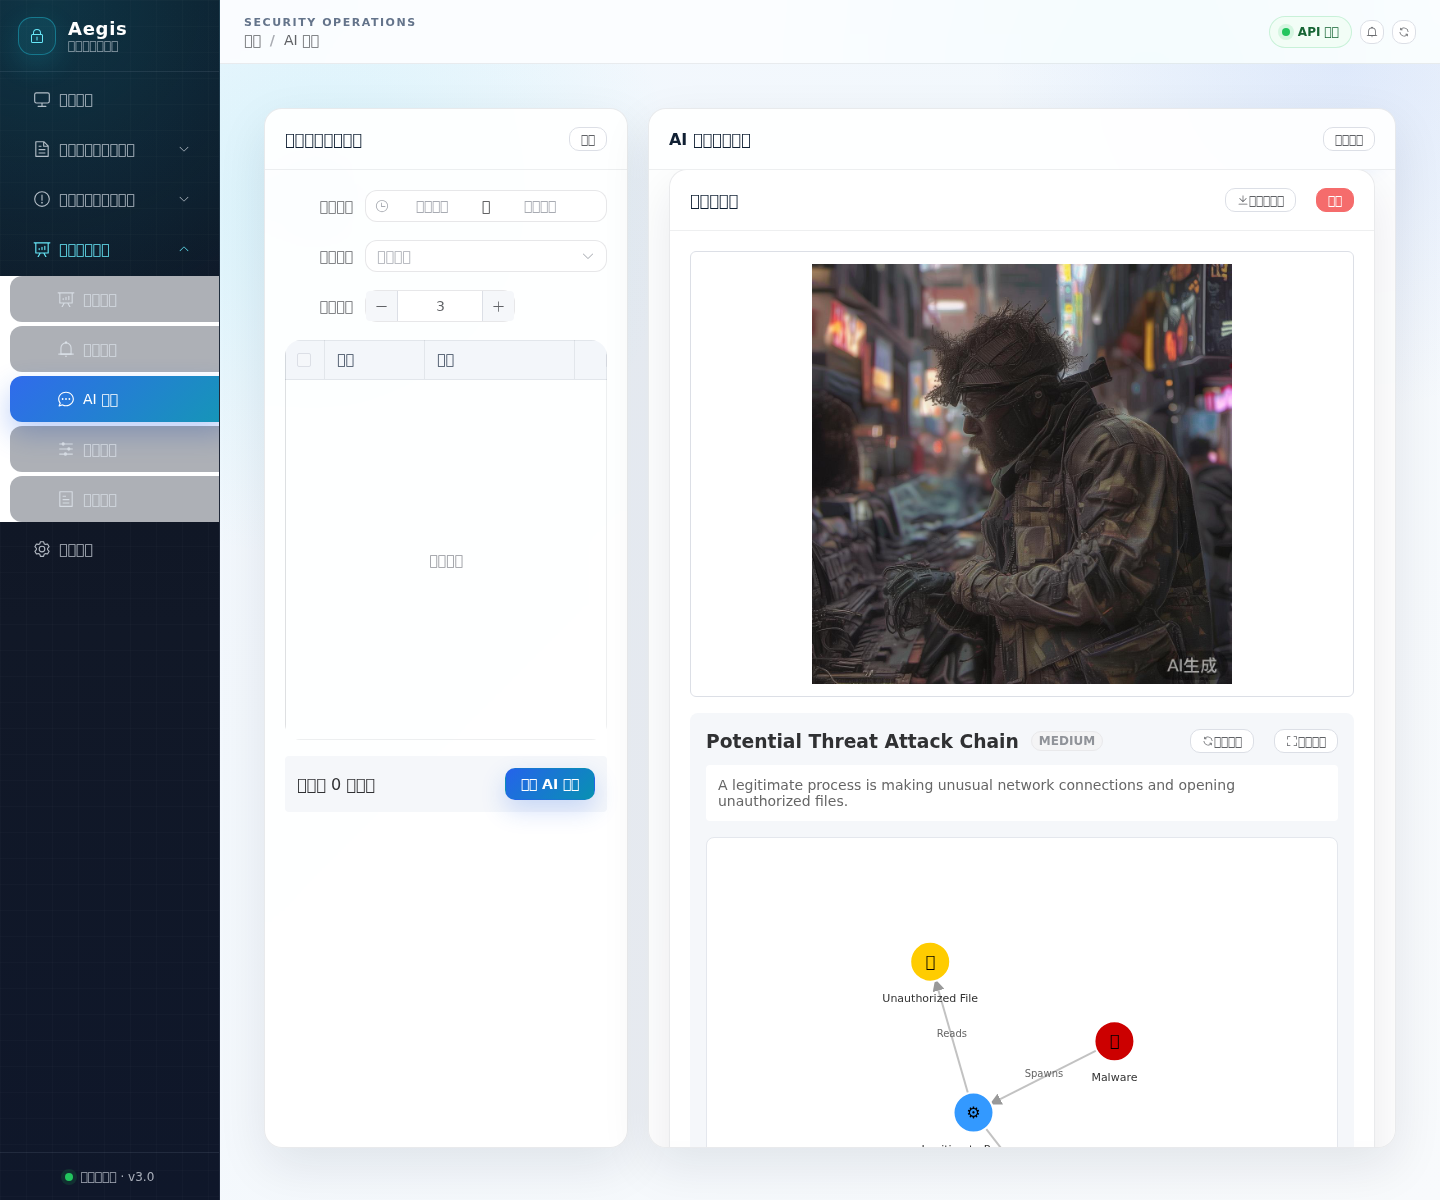
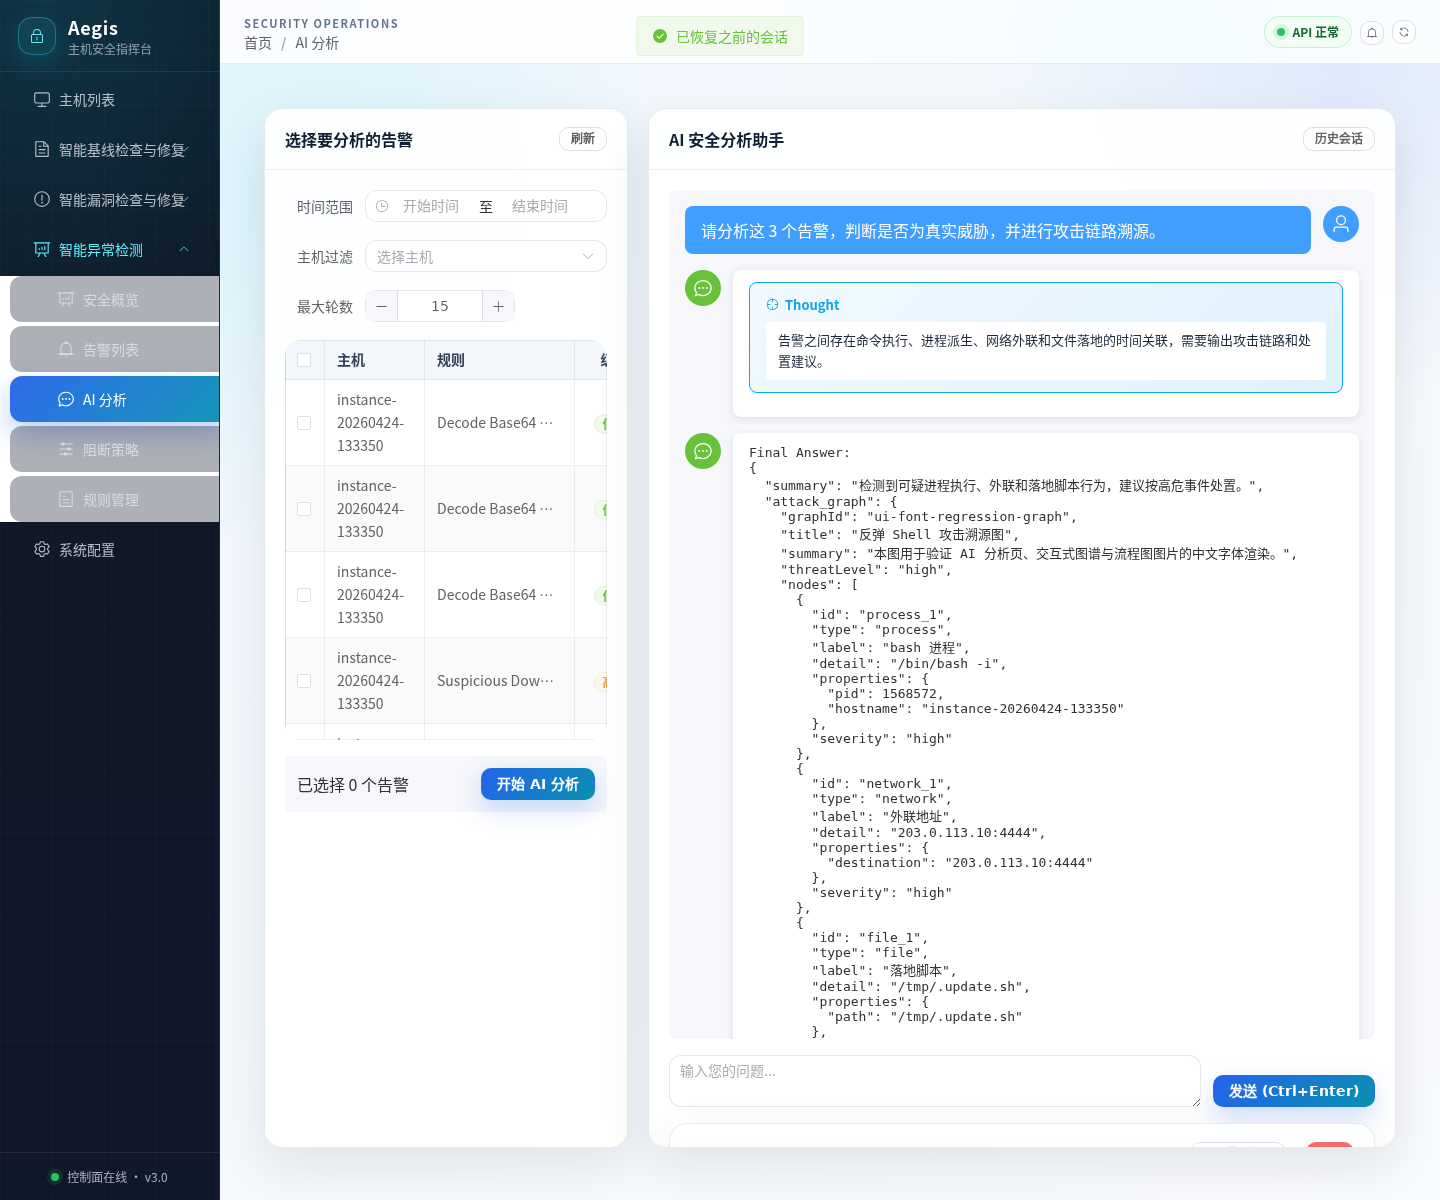
fix: stabilize cjk rendering in ai screenshots

diff --git a/frontend/src/utils/attackGraph.ts b/frontend/src/utils/attackGraph.ts
@@ -133,6 +133,8 @@ function nodeColor(node: AttackGraphNode): string {
   return colors[node.type] || '#475569'
 }
 
+const SVG_FONT_STACK = '"Noto Sans CJK SC", "Noto Sans SC", "Source Han Sans SC", "Microsoft YaHei", "PingFang SC", "Hiragino Sans GB", "WenQuanYi Micro Hei", "Segoe UI", sans-serif'
+
 export function buildAttackGraphSvgDataUrl(graph: AttackGraphData): string {
   const width = 960
   const height = Math.max(360, 190 + graph.nodes.length * 82)
@@ -189,13 +191,13 @@ export function buildAttackGraphSvgDataUrl(graph: AttackGraphData): string {
           <path d="M0,0 L0,6 L9,3 z" fill="#334155" />
         </marker>
         <style>
-          .title { font: 700 28px ui-sans-serif, system-ui, sans-serif; fill: #0f172a; }
-          .summary { font: 400 15px ui-sans-serif, system-ui, sans-serif; fill: #475569; }
-          .node-label { font: 700 13px ui-sans-serif, system-ui, sans-serif; fill: #ffffff; }
-          .node-type { font: 500 11px ui-sans-serif, system-ui, sans-serif; fill: rgba(255,255,255,.82); }
-          .edge-label { font: 600 12px ui-sans-serif, system-ui, sans-serif; fill: #1e293b; }
-          .timeline-title { font: 700 16px ui-sans-serif, system-ui, sans-serif; fill: #0f172a; }
-          .timeline { font: 400 13px ui-sans-serif, system-ui, sans-serif; fill: #334155; }
+          .title { font: 700 28px ${SVG_FONT_STACK}; fill: #0f172a; }
+          .summary { font: 400 15px ${SVG_FONT_STACK}; fill: #475569; }
+          .node-label { font: 700 13px ${SVG_FONT_STACK}; fill: #ffffff; }
+          .node-type { font: 500 11px ${SVG_FONT_STACK}; fill: rgba(255,255,255,.82); }
+          .edge-label { font: 600 12px ${SVG_FONT_STACK}; fill: #1e293b; }
+          .timeline-title { font: 700 16px ${SVG_FONT_STACK}; fill: #0f172a; }
+          .timeline { font: 400 13px ${SVG_FONT_STACK}; fill: #334155; }
         </style>
       </defs>
       <rect width="100%" height="100%" rx="0" fill="#f8fafc" />

diff --git a/frontend/src/components/AttackGraph.vue b/frontend/src/components/AttackGraph.vue
@@ -183,6 +183,16 @@ const nodeColors: Record<string, string> = {
   malware: '#cc0000'
 }
 
+const nodeGlyphs: Record<string, string> = {
+  attacker: '攻',
+  victim: '靶',
+  process: '进',
+  file: '文',
+  network: '网',
+  command: '令',
+  malware: '毒'
+}
+
 // Threat level tag type
 const threatLevelType = computed(() => {
   const map: Record<string, string> = {
@@ -245,6 +255,7 @@ function initGraph() {
     .attr('width', width)
     .attr('height', height)
     .attr('viewBox', [0, 0, width, height])
+    .attr('font-family', 'var(--aegis-font-sans)')
 
   // Add zoom behavior
   const g = svg.append('g')
@@ -319,23 +330,14 @@ function initGraph() {
     .attr('stroke', '#fff')
     .attr('stroke-width', 2)
 
-  // Node emoji icons based on type
+  // Node type glyphs avoid missing color-emoji fonts in Linux screenshot environments.
   node.append('text')
     .attr('text-anchor', 'middle')
     .attr('dy', 5)
-    .attr('font-size', 16)
-    .text(d => {
-      const icons: Record<string, string> = {
-        attacker: '👿',
-        victim: '💀',
-        process: '⚙',
-        file: '📄',
-        network: '🌐',
-        command: '💻',
-        malware: '🦠'
-      }
-      return icons[d.type] || '❓'
-    })
+    .attr('font-size', 14)
+    .attr('font-weight', 700)
+    .attr('fill', '#fff')
+    .text(d => nodeGlyphs[d.type] || '?')
 
   // Node labels (below circle)
   node.append('text')

diff --git a/frontend/src/styles/aegis-theme.css b/frontend/src/styles/aegis-theme.css
@@ -20,6 +20,8 @@
   --aegis-radius-lg: 18px;
   --aegis-radius-md: 12px;
   --aegis-transition: 180ms ease;
+  --aegis-font-sans: "Noto Sans CJK SC", "Noto Sans SC", "Source Han Sans SC", "Microsoft YaHei", "PingFang SC", "Hiragino Sans GB", "WenQuanYi Micro Hei", "Segoe UI", sans-serif;
+  --aegis-font-mono: "JetBrains Mono", "SFMono-Regular", "Consolas", "Liberation Mono", "Noto Sans Mono CJK SC", monospace;
 }
 
 * {
@@ -40,7 +42,7 @@ body {
     radial-gradient(circle at 18% 8%, rgba(34, 211, 238, 0.16), transparent 28%),
     radial-gradient(circle at 88% 14%, rgba(37, 99, 235, 0.15), transparent 26%),
     linear-gradient(135deg, #edf5ff 0%, #f7fafc 45%, #eef4f8 100%);
-  font-family: "Segoe UI", "PingFang SC", "Microsoft YaHei", sans-serif;
+  font-family: var(--aegis-font-sans);
 }
 
 .page-shell {

diff --git a/frontend/src/components/AttackGraph.test.ts b/frontend/src/components/AttackGraph.test.ts
@@ -1,0 +1,19 @@
+import { describe, expect, it } from 'vitest'
+import { readFileSync } from 'node:fs'
+import { resolve } from 'node:path'
+
+describe('AttackGraph visual rendering', () => {
+  const source = readFileSync(resolve(__dirname, 'AttackGraph.vue'), 'utf-8')
+
+  it('uses CJK-safe text glyphs instead of emoji icons in SVG nodes', () => {
+    expect(source).toContain('nodeGlyphs')
+    expect(source).toContain("process: '进'")
+    expect(source).not.toContain('👿')
+    expect(source).not.toContain('💀')
+    expect(source).not.toContain('⚙')
+    expect(source).not.toContain('📄')
+    expect(source).not.toContain('🌐')
+    expect(source).not.toContain('💻')
+    expect(source).not.toContain('🦠')
+  })
+})

diff --git a/frontend/src/styles/aegis-theme.test.ts b/frontend/src/styles/aegis-theme.test.ts
@@ -12,6 +12,14 @@ describe('aegis global visual system', () => {
     expect(theme).toContain('--aegis-risk-critical')
   })
 
+  it('defines CJK-safe typography tokens for UI screenshots', () => {
+    expect(theme).toContain('--aegis-font-sans')
+    expect(theme).toContain('--aegis-font-mono')
+    expect(theme).toContain('Noto Sans CJK SC')
+    expect(theme).toContain('WenQuanYi Micro Hei')
+    expect(theme).toContain('Noto Sans Mono CJK SC')
+  })
+
   it('provides reusable page and component primitives', () => {
     expect(theme).toContain('.page-shell')
     expect(theme).toContain('.page-hero')

diff --git a/frontend/src/utils/attackGraph.test.ts b/frontend/src/utils/attackGraph.test.ts
@@ -68,4 +68,11 @@ describe('attack graph output', () => {
     expect(decodeURIComponent(dataUrl)).toContain('bash')
     expect(decodeURIComponent(dataUrl)).toContain('外连')
   })
+
+  it('embeds a CJK-safe font stack in generated svg flowcharts', () => {
+    const decoded = decodeURIComponent(buildAttackGraphSvgDataUrl(graph))
+
+    expect(decoded).toContain('Noto Sans CJK SC')
+    expect(decoded).toContain('WenQuanYi Micro Hei')
+  })
 })

diff --git a/frontend/src/views/detection/AIAnalysis.vue b/frontend/src/views/detection/AIAnalysis.vue
@@ -1215,7 +1215,7 @@ onMounted(() => {
   line-height: 1.6;
   max-height: none;
   overflow-y: visible;
-  font-family: -apple-system, BlinkMacSystemFont, 'Segoe UI', Roboto, 'Helvetica Neue', Arial, sans-serif;
+  font-family: var(--aegis-font-sans);
 }
 
 /* Thought block - 独立显示AI思考过程 */

diff --git a/docs/aegis_system_design_v5.6/frontend_detailed_design_v5.6.md b/docs/aegis_system_design_v5.6/frontend_detailed_design_v5.6.md
@@ -1107,6 +1107,15 @@ V5.6 前端统一采用“安全运营指挥台”视觉系统，覆盖除业务
 | `src/styles/aegis-theme.css` | CSS 变量、背景、Element Plus 组件覆写、通用页面类 |
 | `src/App.vue` | App Shell、侧边导航、顶部状态栏、内容舞台 |
 
+字体与截图规范：
+
+| 要求 | 说明 |
+|------|------|
+| 中文字体 token | 全局必须通过 `--aegis-font-sans` 定义含 CJK 兜底的字体栈，优先覆盖 `Noto Sans CJK SC`、`Noto Sans SC`、`Source Han Sans SC`、`Microsoft YaHei`、`PingFang SC` 和 `WenQuanYi Micro Hei` |
+| 等宽字体 token | 代码、JSON、日志与进程树应通过 `--aegis-font-mono` 使用等宽字体，并保留 CJK 等宽兜底 |
+| 图谱字体 | `AttackGraph` 中的 SVG 文本必须显式使用 `--aegis-font-sans`，不能依赖浏览器默认 `sans-serif` |
+| 截图环境 | 生成 `docs/screenshots/ui-refresh/` 截图前，浏览器所在环境必须安装中文字体，例如 `fonts-noto-cjk` 或 `fonts-wqy-microhei` |
+
 所有业务页面应优先复用全局类：
 
 | 类名 | 用途 |
